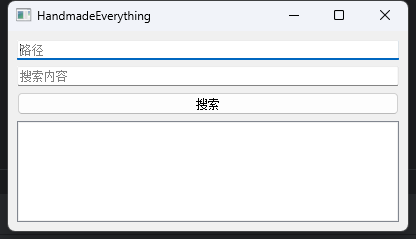
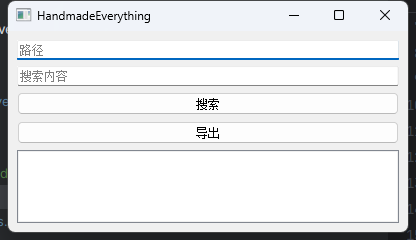
ver 0.1.3: 提供导出为PDF、WORD文档的功能，并在readme里增加了对导出功能的描述

diff --git a/HandmadeEverything.py b/HandmadeEverything.py
@@ -1,14 +1,15 @@
 import os
 
-from PyQt5.QtWidgets import QMainWindow, QWidget, QVBoxLayout, QLineEdit, QPushButton, QListWidget, QMessageBox
+from PyQt5.QtWidgets import QMainWindow, QWidget, QVBoxLayout, QLineEdit, QPushButton, QListWidget, QMessageBox, \
+    QFileDialog
 
+from OutputThread import OutputThread
 from SearchThread import SearchThread
 
 
 class HandmadeEverything(QMainWindow):
     def __init__(self):
         super().__init__()
-        self.search_thread = None
         self.setWindowTitle('HandmadeEverything')
         self.setGeometry(200, 100, 400, 200)
         self.central_widget = QWidget(self)
@@ -20,16 +21,19 @@ class HandmadeEverything(QMainWindow):
         self.search_input = QLineEdit()  # 搜索内容
         self.search_input.setPlaceholderText('搜索内容')
         self.search_button = QPushButton('搜索')
+        self.output_button = QPushButton('导出')
         self.result_list = QListWidget()  # 结果显示
 
         self.layout.addWidget(self.search_path)
         self.layout.addWidget(self.search_input)
         self.layout.addWidget(self.search_button)
+        self.layout.addWidget(self.output_button)
         self.layout.addWidget(self.result_list)
 
         self.central_widget.setLayout(self.layout)
 
         self.search_button.clicked.connect(self.start_search_thread)
+        self.output_button.clicked.connect(self.start_output_thread)
         self.result_list.itemDoubleClicked.connect(self.open_file)
         # 线程锁，对应search_files的TODO
         # self.lock = threading.Lock()
@@ -39,14 +43,36 @@ class HandmadeEverything(QMainWindow):
         启动一个QThread线程来搜索文件
         线程定义在SearchThread类
         """
-        self.search_thread = SearchThread(self.search_input, self.search_path)
-        self.search_thread.search_finished.connect(self.display_search_results)
-        self.search_thread.runThread()
+        search_thread = SearchThread(self.search_input, self.search_path)
+        search_thread.search_finished.connect(self.display_search_results)
+        search_thread.runThread()
 
     def display_search_results(self, result_paths):
 
         self.result_list.clear()
         self.result_list.addItems(result_paths)
+
+    def start_output_thread(self):
+        """
+
+        :return:
+        """
+        search_results = [self.result_list.item(i).text() for i in range(self.result_list.count())]
+        output_path, _ = QFileDialog.getSaveFileName(self, '选择导出路径', '',
+                                                     'Markdown 文件 (*.md);;'
+                                                     'Word 文件 (*.docx);;'
+                                                     'PDF 文件 (*.pdf);;'
+                                                     '所有文件 (*)')
+        if self.result_list.count() == 0:
+            QMessageBox.warning(self, "error", "no result can output!")
+        if output_path:
+            file_extension = output_path.split('.')[-1].lower()
+            output_thread = OutputThread(search_results, output_path, file_extension)
+            output_thread.output_finished.connect(self.output_message)
+            output_thread.run_thread()
+
+    def output_message(self):
+        QMessageBox.information(self, "info", "output succeed")
 
     def open_file(self, item):
         """
@@ -64,4 +90,4 @@ class HandmadeEverything(QMainWindow):
                 QMessageBox.warning(self, "error", "file can't open")
         else:
             with self.lock:
-                QMessageBox.warning(self, 'error', "file don't exist")
+                QMessageBox.warning(self, "error", "file don't exist")

diff --git a/OutputThread.py b/OutputThread.py
@@ -1,0 +1,80 @@
+from PyQt5.QtWidgets import QMessageBox
+from docx import Document
+from markdown import markdown
+
+from PyQt5.QtCore import QThread, pyqtSignal
+from reportlab.lib.pagesizes import letter
+from reportlab.pdfgen import canvas
+
+
+class OutputThread(QThread):
+    """
+    
+    """
+    output_finished = pyqtSignal()
+
+    def __init__(self, search_results, output_path, file_extension):
+        super().__init__()
+
+        self.search_results = search_results
+        self.output_path = output_path
+        self.file_extension = file_extension
+
+    def run_thread(self):
+        if self.file_extension == 'pdf':
+            self.output_pdf()
+        elif self.file_extension == 'docx':
+            self.output_docx()
+        elif self.file_extension == 'md':
+            self.output_md()
+
+    def output_pdf(self):
+        c = canvas.Canvas(self.output_path, pagesize=letter)
+        y_position = 750
+        for result in self.search_results:
+            lines = self.text_line_split(result, 100)
+            for line in lines:
+                c.drawString(15, y_position, line)
+                y_position -= 15
+                if y_position < 50:
+                    y_position = 750
+                    c.showPage()
+        try:
+            c.save()
+        except:
+            QMessageBox.warning('error', 'save failed!\nplease check if the file is currently in use')
+
+        self.output_finished.emit()
+
+    def text_line_split(self, text, width):
+        lines = []
+        words = text.split('\\')
+        tmp = words[0]
+
+        for word in words[1:]:
+            if len(tmp + '\\' + word) <= width:
+                # or (len(tmp + '-' + word) <= width)
+                # or (len(tmp + '_' + word) <= width)):
+                tmp += '\\'
+                tmp += word
+            else:
+                lines.append(tmp)
+                tmp = '\\' + word
+        lines.append(tmp)
+        return lines
+
+    def output_docx(self):
+        document = Document()
+        for result in self.search_results:
+            document.add_paragraph(result)
+        document.save(self.output_path)
+
+        self.output_finished.emit()
+
+    def output_md(self):
+        markdown_content = '\n'.join(self.search_results)
+        markdown_content = markdown(markdown_content)
+        with open(self.output_path, 'w', encoding='utf-8') as f:
+            f.write(markdown_content)
+
+        self.output_finished.emit()

diff --git a/README.md b/README.md
@@ -17,9 +17,10 @@
 
 1. 在路径栏输入目标文件的范围，最少应输入盘符
 2. 在搜索内容栏输入目标文件的文件名，支持通过文件名的一部分搜索文件，目前仅支持搜索一个词语
-3. 点击搜索，稍作等待
+3. 点击`搜索`，稍作等待
 4. 在搜索按钮下方的白框显示结果，如果仍为白框，则表示未找到目标文件，请更换搜索内容
 5. 对于搜索到的文件，双击可以用系统默认程序打开文件
+6. 在搜索完成以后，可以点击`导出`,支持docx pdf md三种格式
 
 运行结果如图
 
@@ -42,8 +43,7 @@ concurrent.futures库提供的线程池管理功能应当能优化
 2. 使用NTFS的USN日志实现文件索引
     - 目前可以获取这个文件，但是如何处理仍在探索
 3. 通过数据库存储文件索引，每次运行文件通过匹配更改更新数据库
-4. 提供导出为PDF、WORD文档的功能
-5. 提供命令行调用功能
+4. 提供命令行调用功能
 
 ### DONE: 
 1. 图形化界面
@@ -58,3 +58,4 @@ concurrent.futures库提供的线程池管理功能应当能优化
       实际上搜索线程也在使用这一共享资源，尝试把搜索结果保存在列表里来避免阻塞
    - Qthread实现
     - 在display_search_results显示搜索结果
+4. 提供导出为PDF、WORD文档的功能
